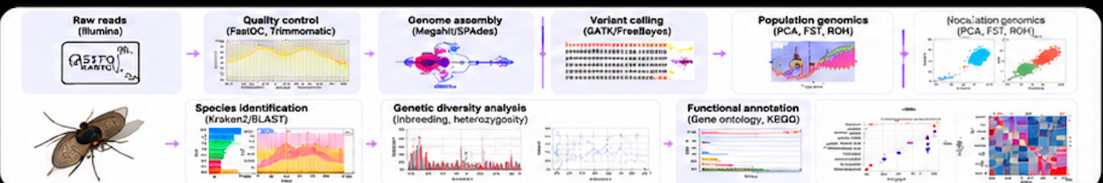
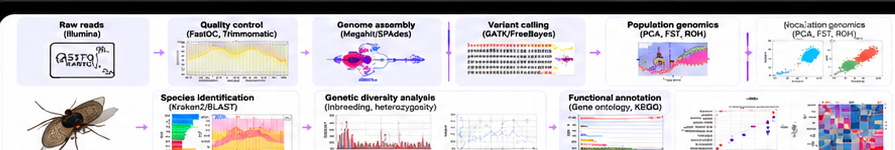
Replace v10 research thumbnails with selected images

diff --git a/README_V10_IMAGES.md b/README_V10_IMAGES.md
@@ -1,0 +1,10 @@
+V10 thumbnail replacement
+
+Replaced five existing v10 homepage thumbnail assets with the five user-supplied PNG images. No HTML, CSS, page text, original high-resolution research images, or links were modified.
+
+Mapping:
+01_GAN_Blood_Coagulation -> assets/figures/v10-gan-svoct.png
+02_Deep_Learning_OCT -> assets/figures/v10-oct-coagulation.png
+03_Bone_Tumor_Segmentation -> assets/figures/v10-bone-tumor.png
+04_CT_CBCT_Dosimetric_Evaluation -> assets/figures/v10-ct-cbct.png
+05_BSF_Genomics_Pipeline -> assets/figures/v10-bsf-genomics.png
